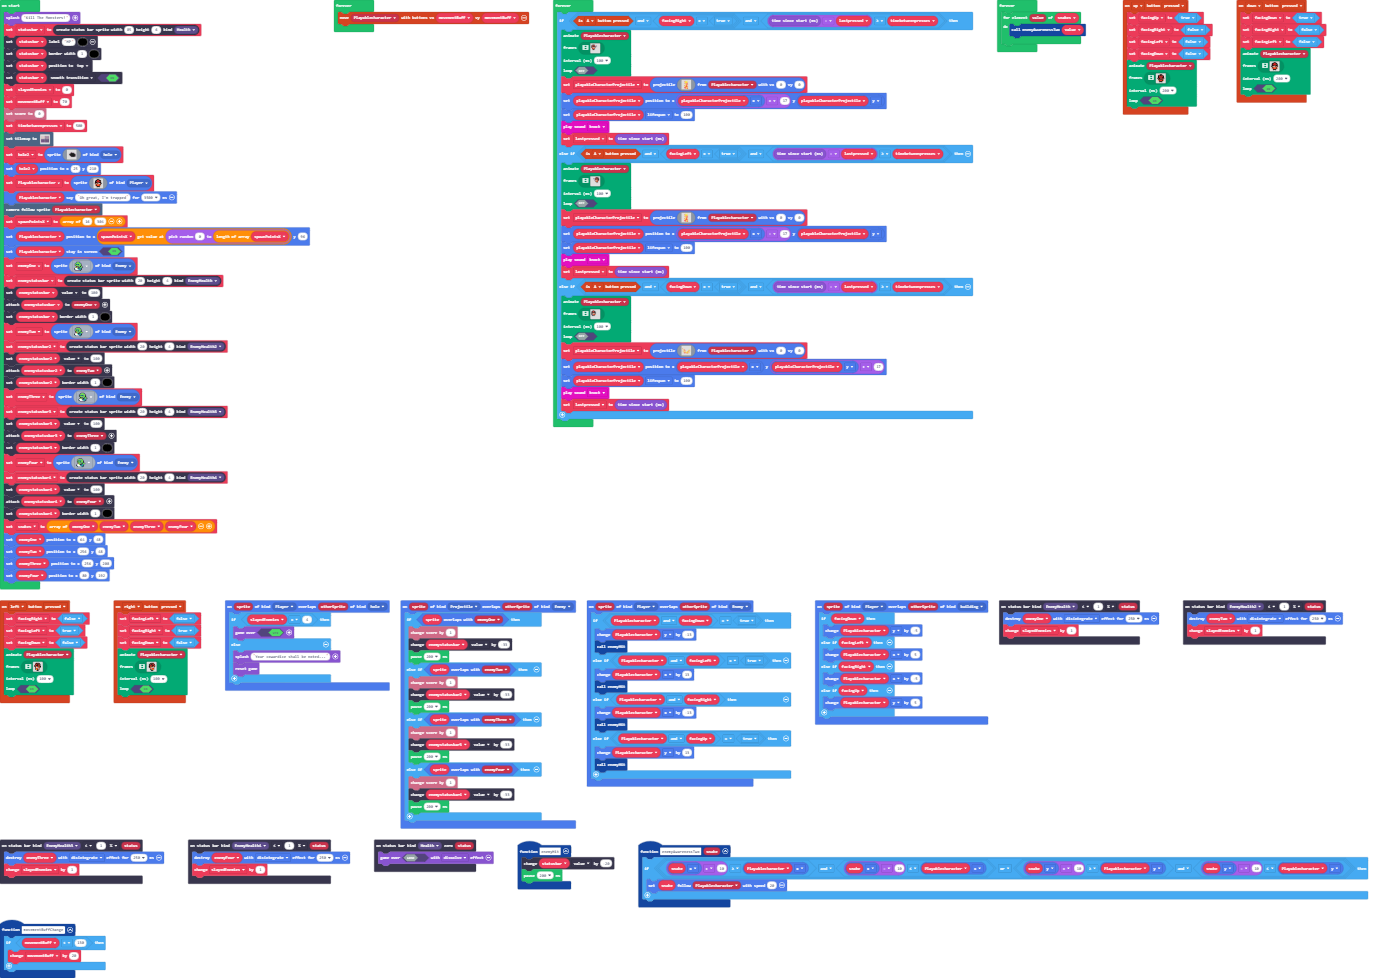
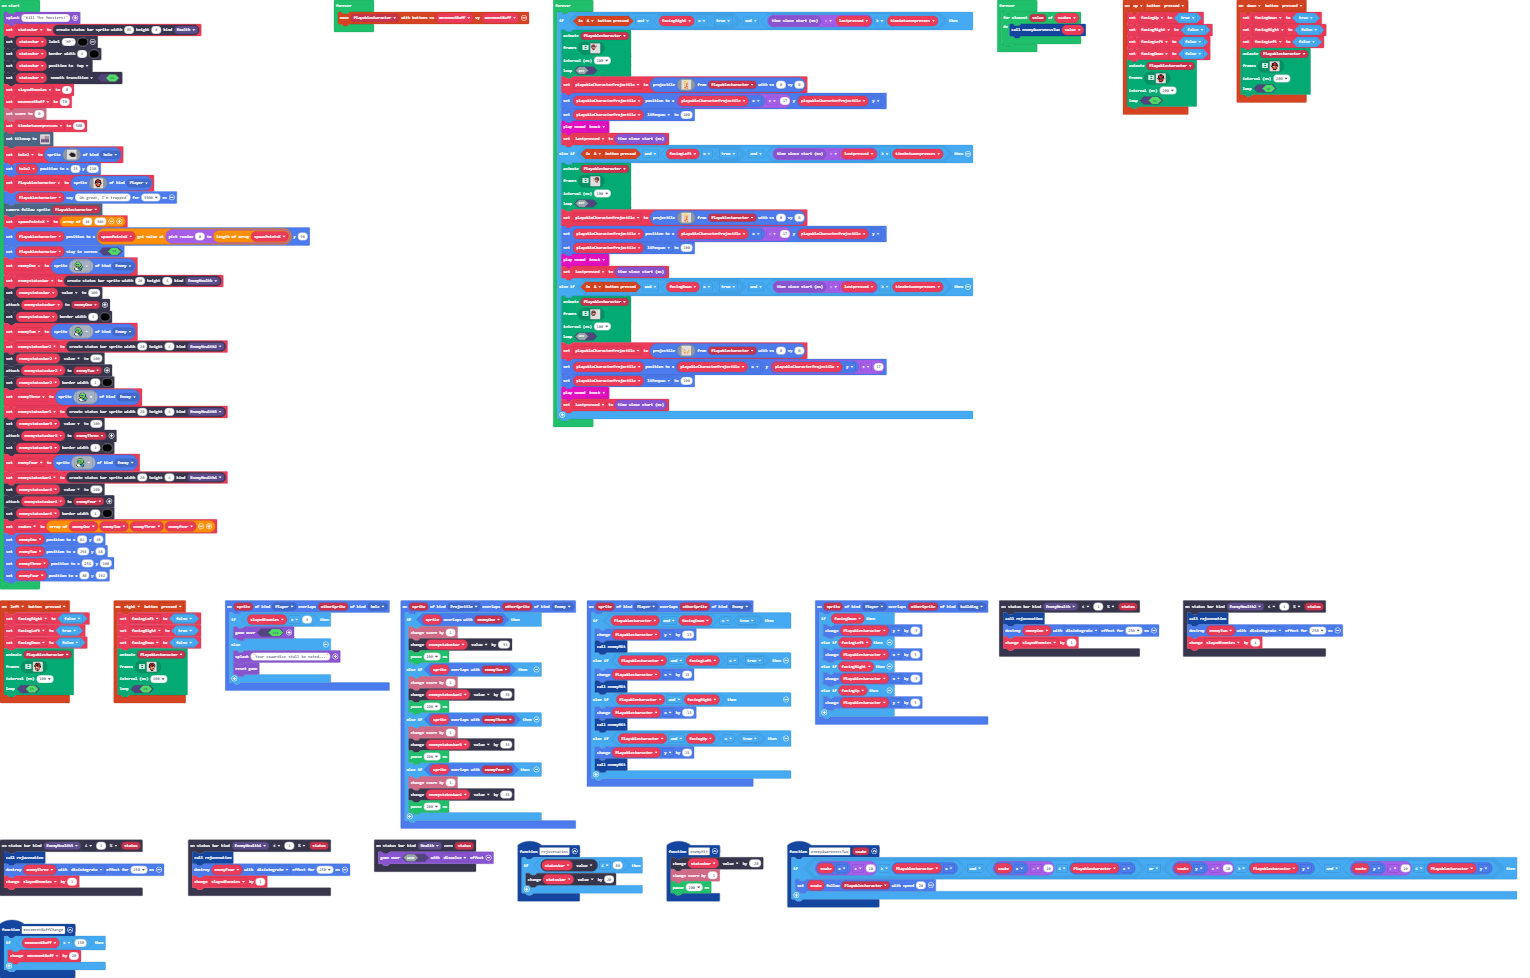
Update main.blocks, main.ts

diff --git a/main.ts b/main.ts
@@ -361,19 +361,28 @@ controller.down.onEvent(ControllerButtonEvent.Pressed, function () {
     true
     )
 })
+function rejuvenation () {
+    if (statusbar.value <= 80) {
+        statusbar.value += 20
+    }
+}
 statusbars.onStatusReached(StatusBarKind.EnemyHealth4, statusbars.StatusComparison.LTE, statusbars.ComparisonType.Percentage, 1, function (status) {
+    rejuvenation()
     enemyFour.destroy(effects.disintegrate, 250)
     slayedEnemies += 1
 })
 statusbars.onStatusReached(StatusBarKind.EnemyHealth2, statusbars.StatusComparison.LTE, statusbars.ComparisonType.Percentage, 1, function (status) {
+    rejuvenation()
     enemyTwo.destroy(effects.disintegrate, 250)
     slayedEnemies += 1
 })
 function enemyHit () {
     statusbar.value += -20
+    info.changeScoreBy(-1)
     pause(200)
 }
 statusbars.onStatusReached(StatusBarKind.EnemyHealth3, statusbars.StatusComparison.LTE, statusbars.ComparisonType.Percentage, 1, function (status) {
+    rejuvenation()
     enemyThree.destroy(effects.disintegrate, 250)
     slayedEnemies += 1
 })
@@ -397,6 +406,7 @@ sprites.onOverlap(SpriteKind.Projectile, SpriteKind.Enemy, function (sprite, oth
     }
 })
 statusbars.onStatusReached(StatusBarKind.EnemyHealth, statusbars.StatusComparison.LTE, statusbars.ComparisonType.Percentage, 1, function (status) {
+    rejuvenation()
     ememyOne.destroy(effects.disintegrate, 250)
     slayedEnemies += 1
 })
